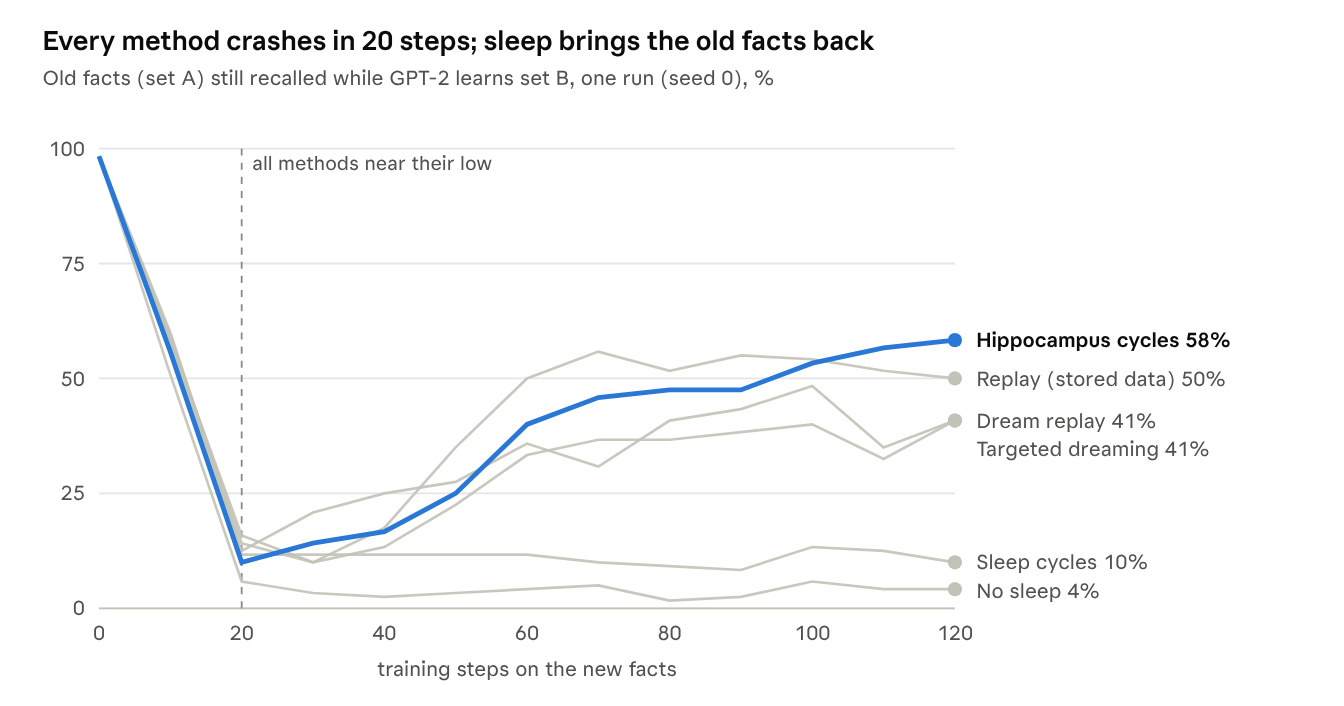
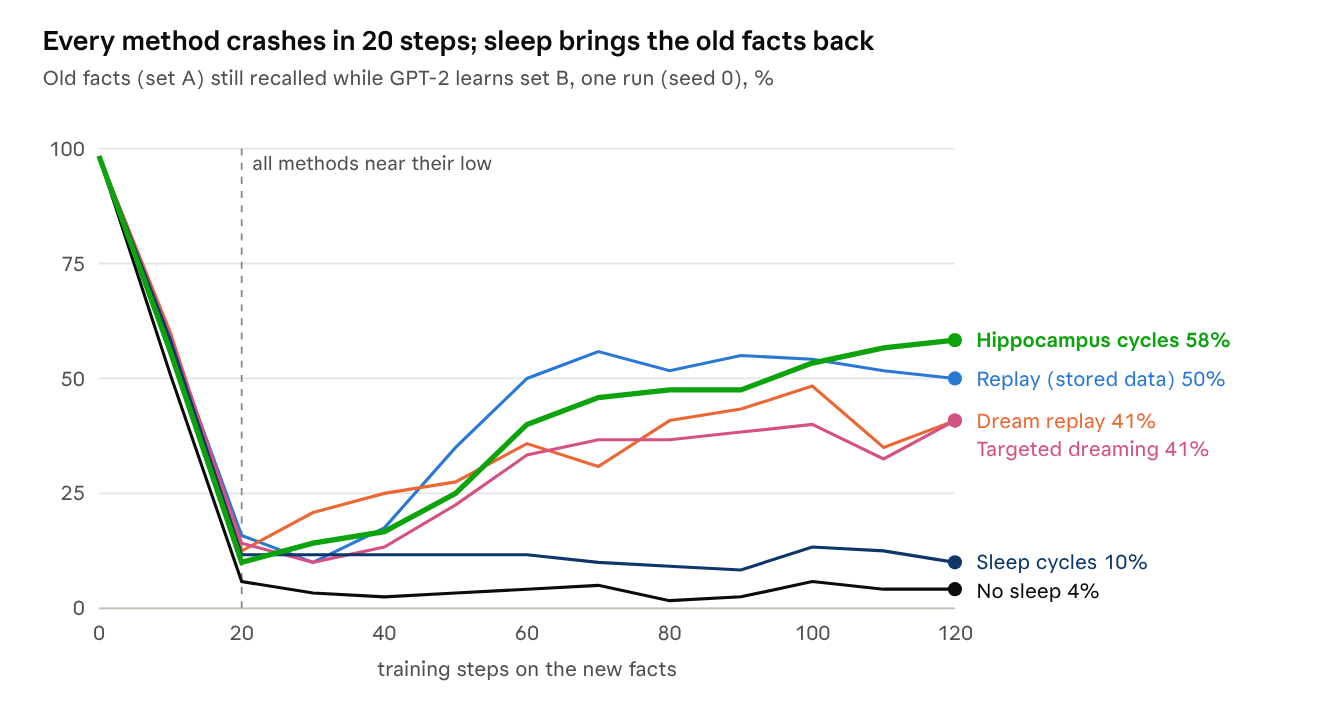
Show only the sleep post, author Marya, Topics menu, new chart colours
- Author name is now Marya.
- DDPM, the diffusion section and the transformers stub are set to draft (hidden, files kept).
- Menu item Diffusion Models becomes Topics (categories); intro no longer links the diffusion series.
- Sleep post charts: one colour per method; 3-seed chart in black and green.

diff --git a/content/diffusion/_index.md b/content/diffusion/_index.md
@@ -1,6 +1,7 @@
 ---
 title: "Diffusion Models"
 description: "A growing library of diffusion model papers, each rewritten as a plain-English explanation with pictures and runnable code. Start at the beginning and read forward."
+draft: true
 summary: "A growing library of diffusion model papers, each rewritten as a plain-English explanation with pictures and runnable code."
 ---
 

diff --git a/content/posts/understanding-transformers.md b/content/posts/understanding-transformers.md
@@ -2,7 +2,7 @@
 title: "Understanding Transformers From a Research Paper"
 date: 2026-08-04
 url: "/understanding-transformers/"
-draft: false
+draft: true
 categories: ["Papers"]
 tags: ["machine-learning", "transformers", "python"]
 ---

diff --git a/content/diffusion/ddpm.md b/content/diffusion/ddpm.md
@@ -1,7 +1,7 @@
 ---
 title: "DDPM: How Adding Noise Taught Machines to Draw"
 date: 2026-08-23
-draft: false
+draft: true
 weight: 1
 math: true
 categories: ["Papers", "Diffusion Models"]
